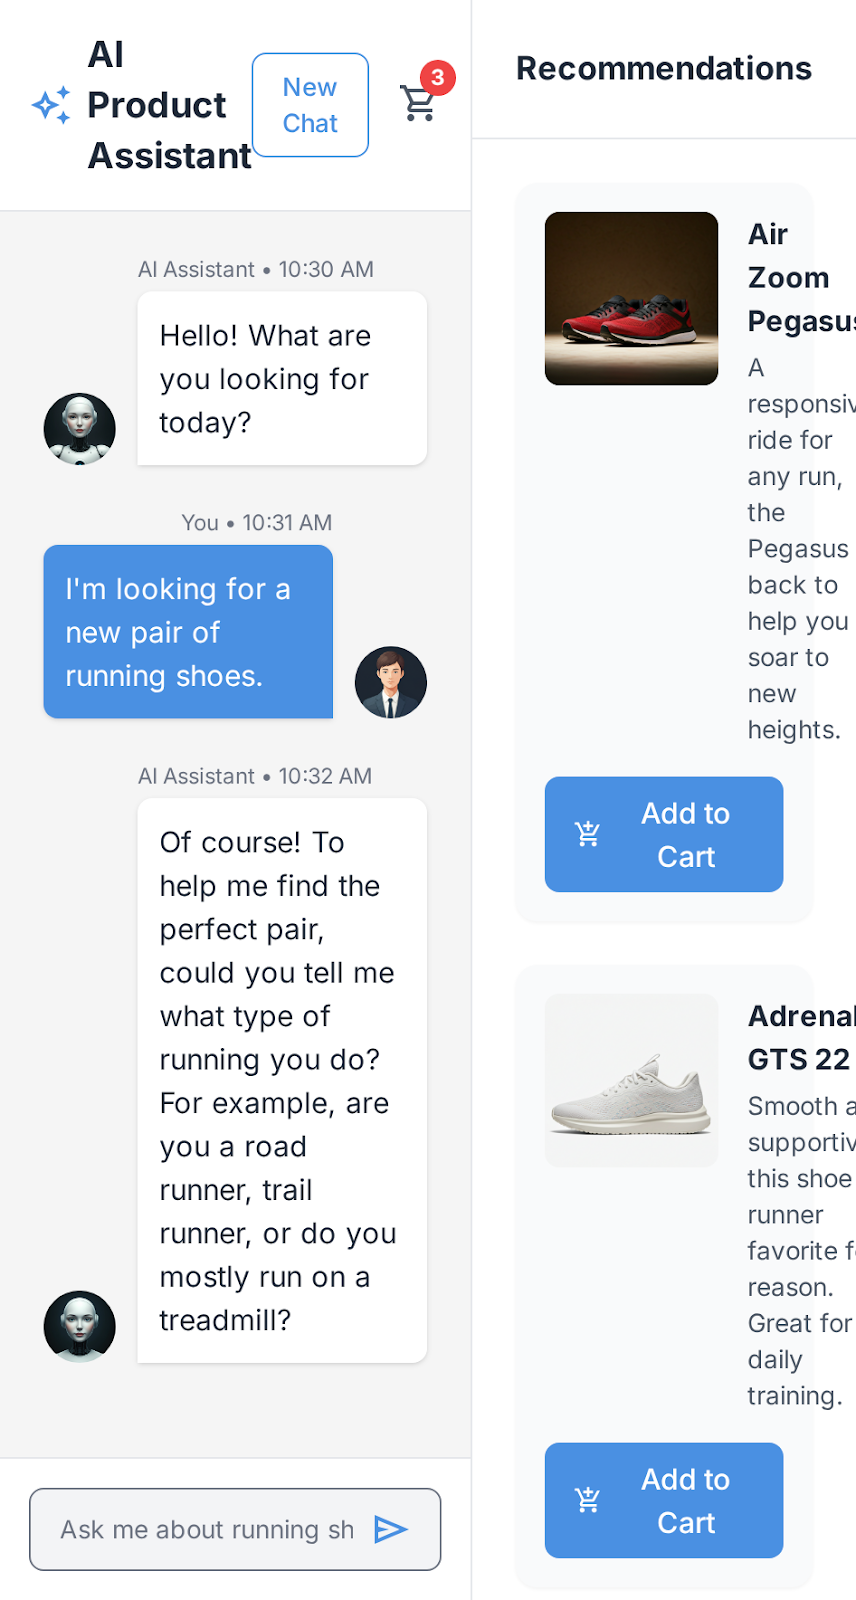
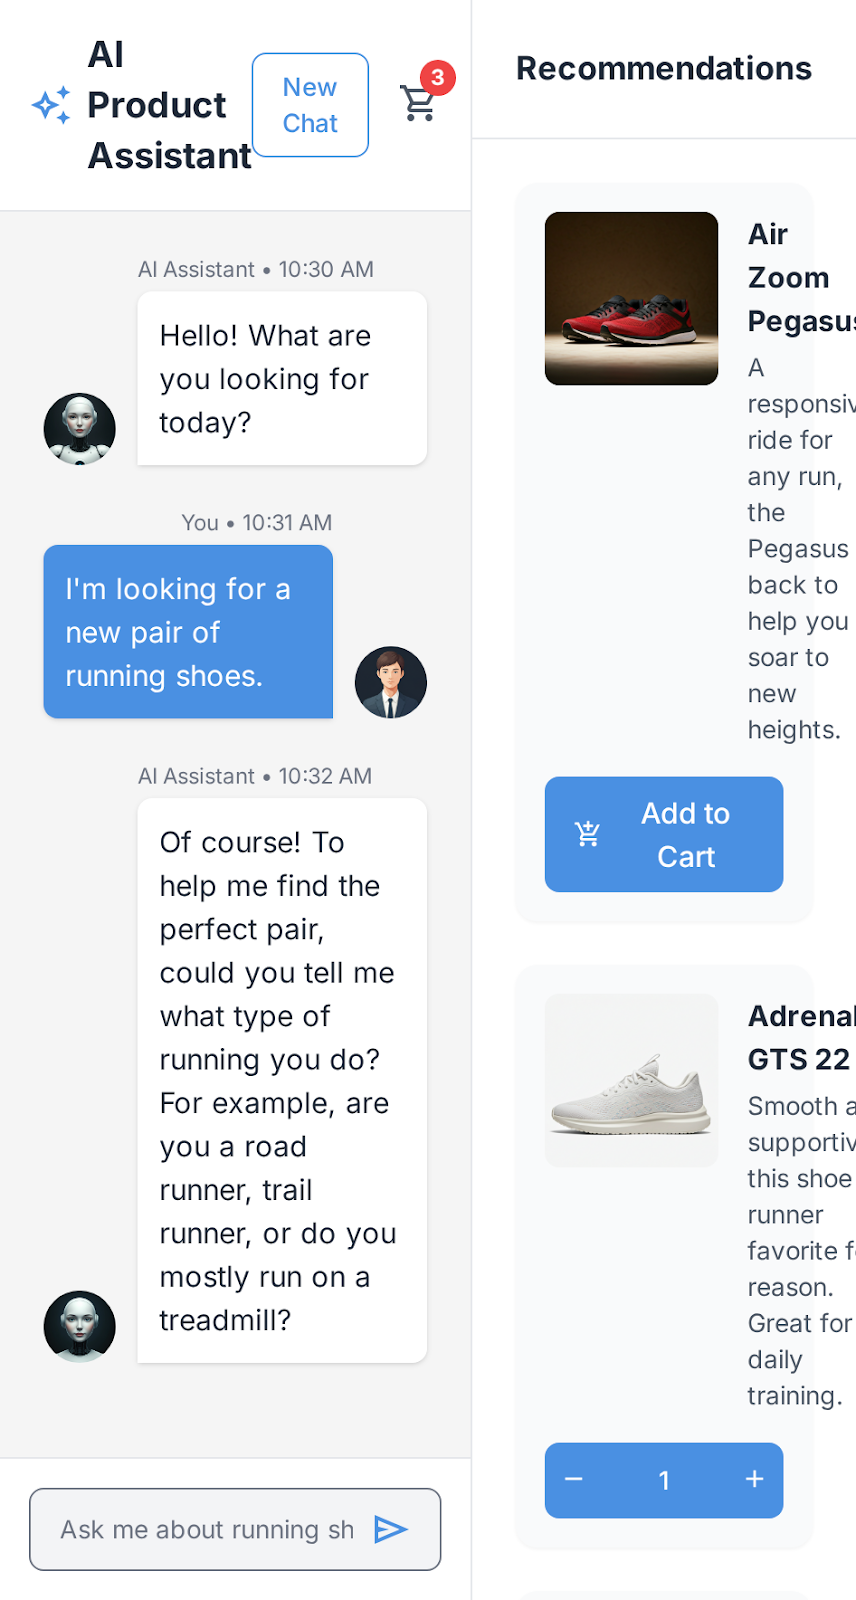
updated

Changed region(s): [[0.6379, 0.9062, 0.9416, 1.0]]

diff --git a/ai-chat/code.html b/ai-chat/code.html
@@ -63,6 +63,11 @@
       min-height: max(884px, 100dvh);
     }
   </style>
+<style>
+    body {
+      min-height: max(884px, 100dvh);
+    }
+  </style>
   </head>
 <body class="bg-background-light dark:bg-background-dark font-display">
 <div class="flex h-screen">
@@ -144,10 +149,15 @@ Add to Cart
 <p class="text-sm text-gray-600 dark:text-gray-300 mt-1">Smooth and supportive, this shoe is a runner favorite for a reason. Great for daily training.</p>
 </div>
 </div>
-<button class="w-full bg-primary text-white font-medium py-2 px-4 rounded-lg flex items-center justify-center gap-2 hover:bg-primary/90 transition-colors">
-<span class="material-symbols-outlined text-base">add_shopping_cart</span>
-Add to Cart
+<div class="w-full bg-primary text-white font-medium rounded-lg flex items-center justify-between transition-colors">
+<button class="p-2 hover:bg-primary/80 rounded-l-lg">
+<span class="material-symbols-outlined text-base">remove</span>
 </button>
+<span class="px-4 text-sm">3</span>
+<button class="p-2 hover:bg-primary/80 rounded-r-lg">
+<span class="material-symbols-outlined text-base">add</span>
+</button>
+</div>
 </div>
 <div class="flex flex-col gap-4 p-4 bg-gray-50 dark:bg-gray-800 rounded-xl shadow-sm hover:shadow-lg transition-shadow duration-300">
 <div class="flex items-start gap-4">
